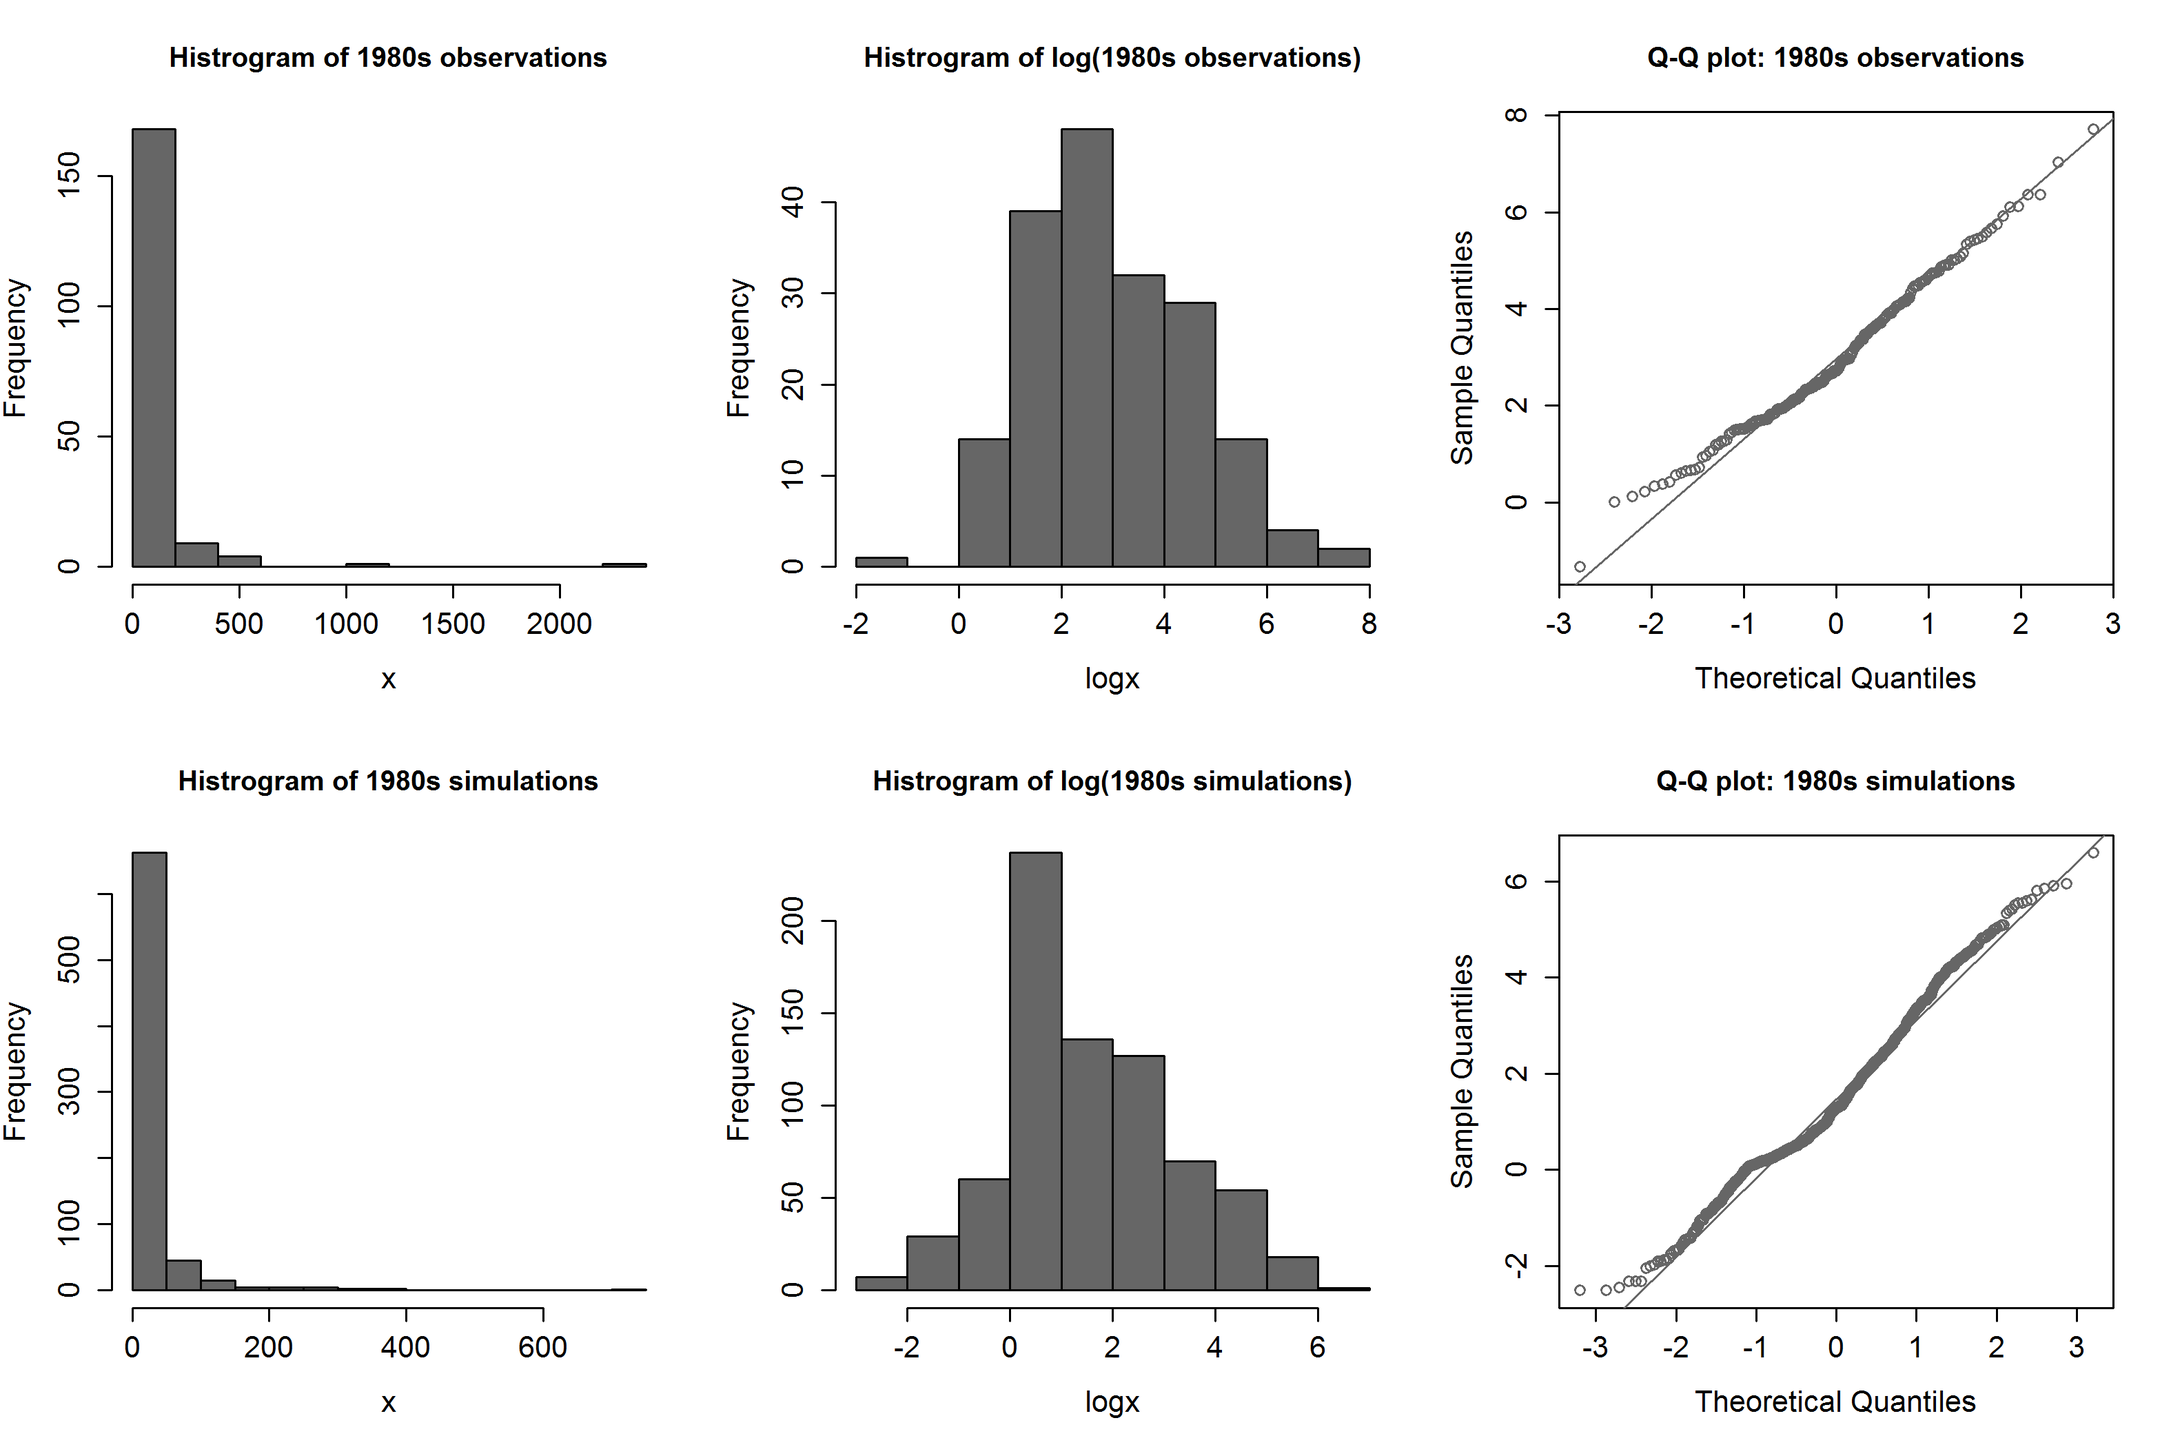
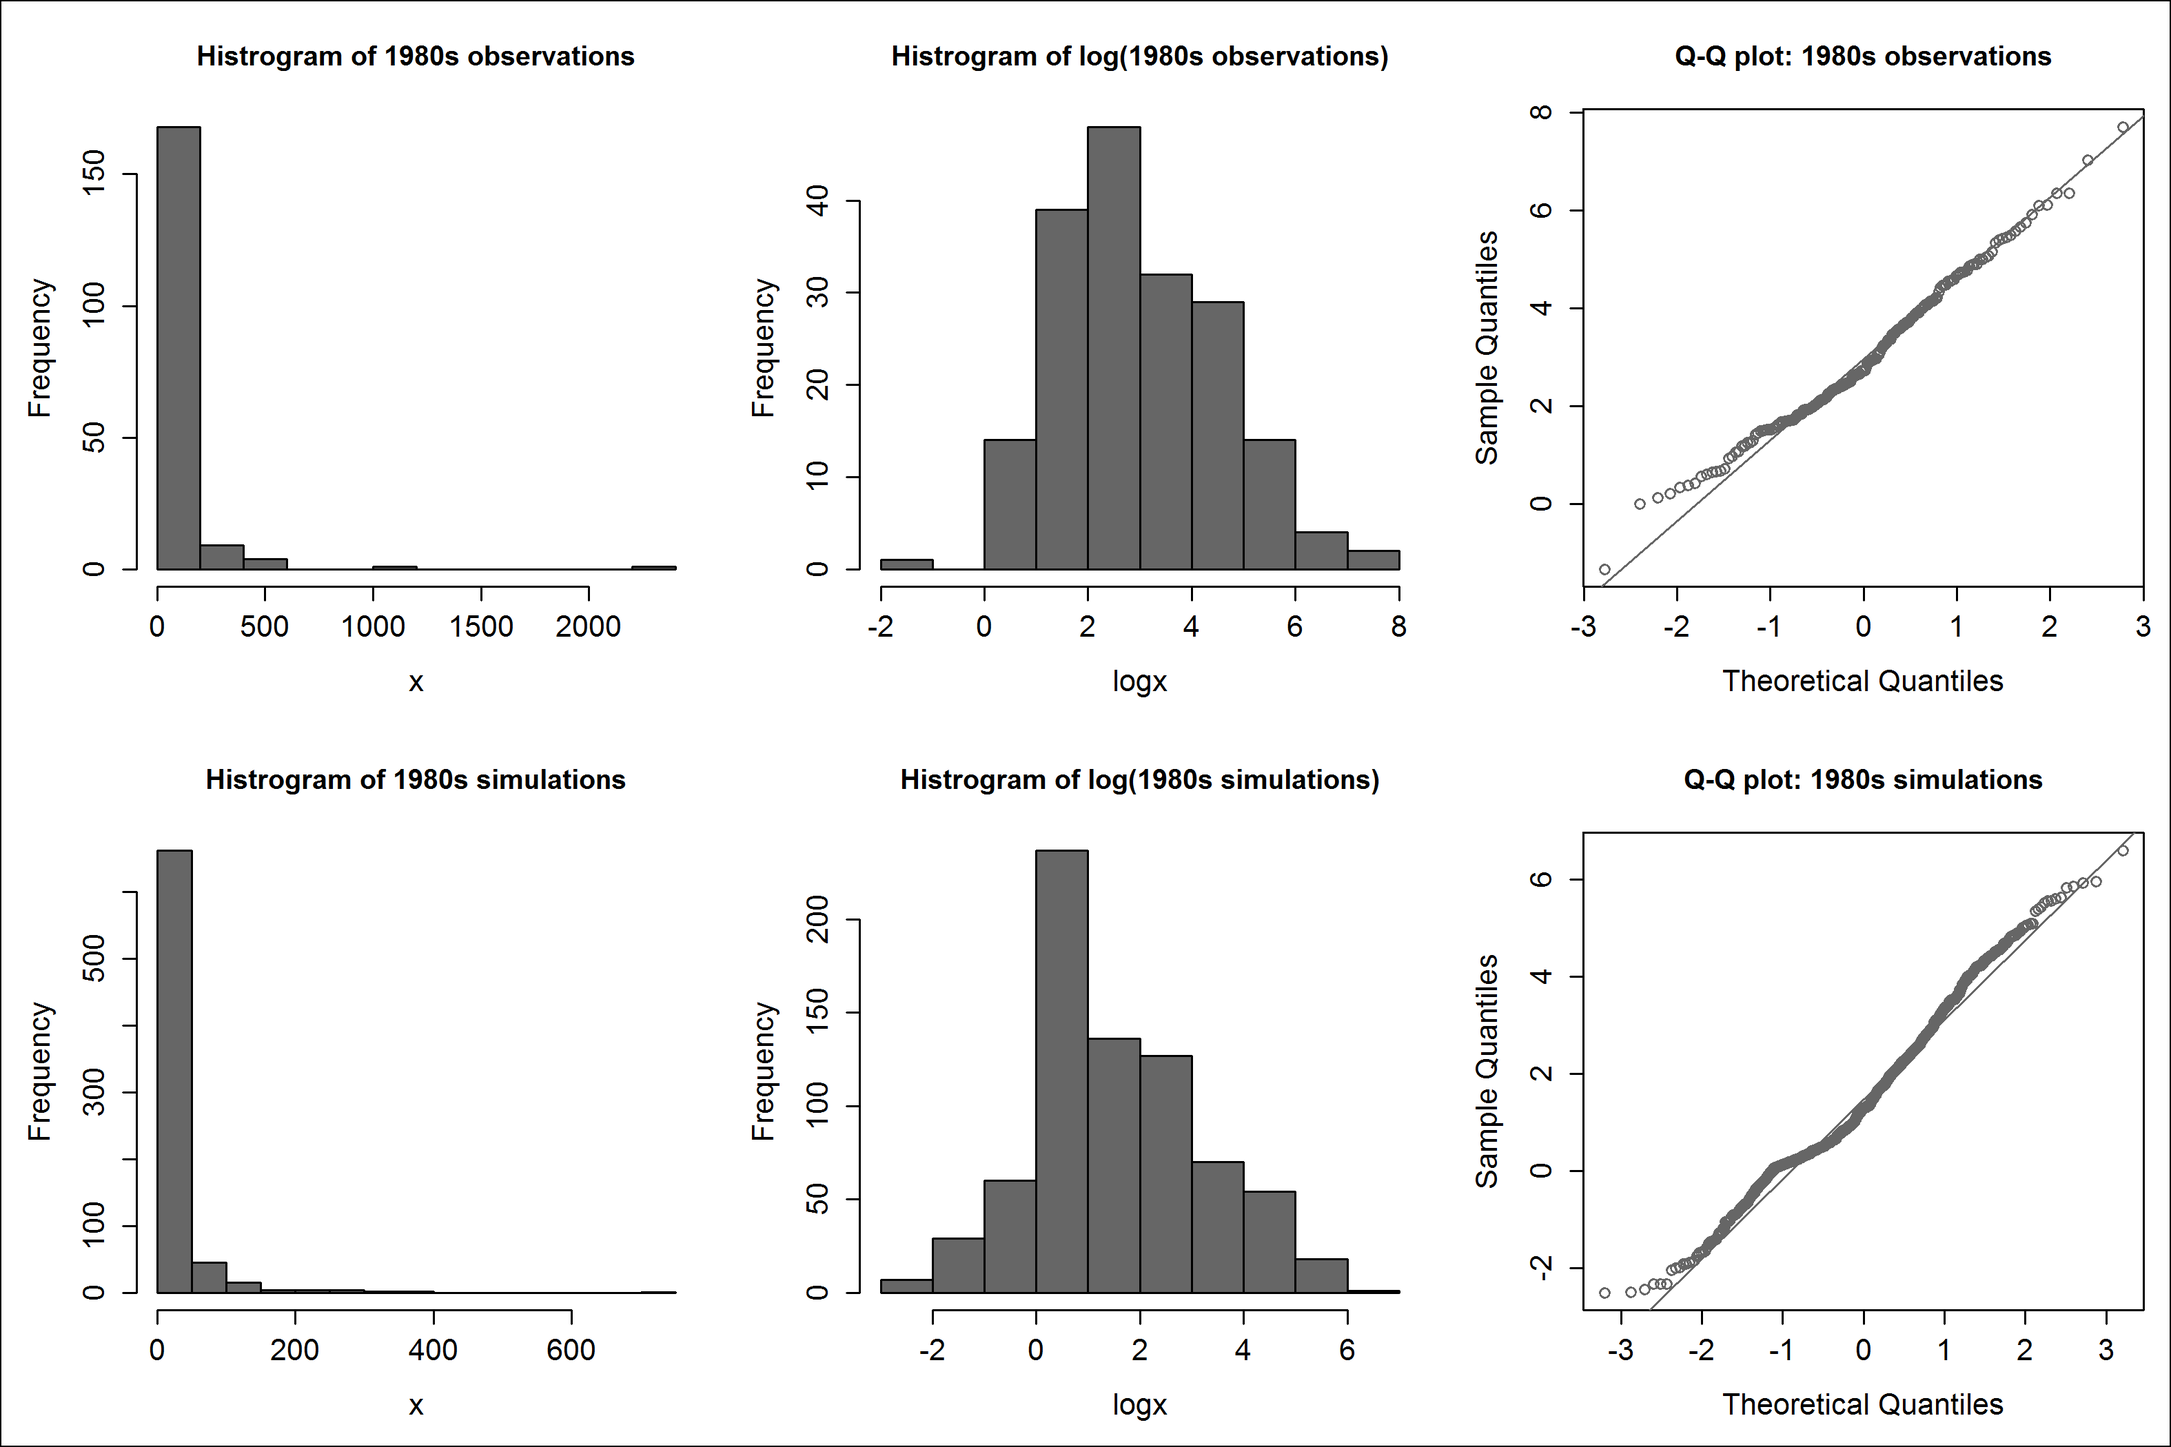
Update docs

diff --git a/docs/html/fse_eda2.html b/docs/html/fse_eda2.html
@@ -212,7 +212,7 @@ img {
 <pre class="sourceCode r"><code class="sourceCode r"><span class="co"># Functions to assess log-normality of fire size for observed data and a</span>
 <span class="co"># sample simulation replicate</span>
 check_lnorm &lt;-<span class="st"> </span>function(d, <span class="dt">nmax.ad.test =</span> <span class="dv">100</span>, <span class="dt">verbose =</span> <span class="ot">FALSE</span>, <span class="dt">closure =</span> <span class="ot">TRUE</span>, 
-    <span class="dt">period =</span> <span class="st">&quot;1950-2009&quot;</span>, ...) {
+    <span class="dt">period =</span> <span class="st">&quot;1950-2009&quot;</span>, <span class="dt">border =</span> <span class="ot">FALSE</span>, ...) {
     f &lt;-<span class="st"> </span>function() {
         <span class="kw">require</span>(<span class="st">&quot;nortest&quot;</span>)
         dl &lt;-<span class="st"> </span><span class="kw">split</span>(d$FSE, d$Replicate)
@@ -223,6 +223,8 @@ check_lnorm &lt;-<span class="st"> </span>function(d, <span class="dt">nmax.ad.t
         if (<span class="kw">length</span>(iters) ==<span class="st"> </span><span class="dv">1</span>) 
             iters &lt;-<span class="st"> </span><span class="dv">1</span>
         <span class="kw">layout</span>(<span class="kw">matrix</span>(<span class="dv">1</span>:(<span class="dv">3</span> *<span class="st"> </span><span class="kw">length</span>(iters)), <span class="kw">length</span>(iters), <span class="dt">byrow =</span> T))
+        if (border) 
+            <span class="kw">par</span>(<span class="dt">mar =</span> <span class="kw">c</span>(<span class="dv">5</span>, <span class="dv">5</span>, <span class="dv">4</span>, <span class="dv">1</span>))
         for (i in iters) {
             x &lt;-<span class="st"> </span>dl[[i]]
             logx &lt;-<span class="st"> </span><span class="kw">log</span>(x +<span class="st"> </span><span class="kw">runif</span>(<span class="kw">length</span>(x), -<span class="fl">0.95</span>, <span class="fl">0.95</span>))  <span class="co"># Add uniform noise</span>
@@ -235,19 +237,24 @@ check_lnorm &lt;-<span class="st"> </span>function(d, <span class="dt">nmax.ad.t
                   <span class="kw">print</span>(<span class="kw">ad.test</span>(<span class="kw">sample</span>(logx, <span class="kw">min</span>(<span class="kw">length</span>(logx), nmax.ad.test)))) else <span class="kw">print</span>(<span class="st">&quot;Sample too small for Anderson-Darling normality test.&quot;</span>)
             }
         }
+        if (border) {
+            <span class="kw">par</span>(<span class="dt">xpd =</span> <span class="ot">NA</span>)
+            <span class="kw">rect</span>(<span class="kw">grconvertX</span>(<span class="dv">0</span>, <span class="dt">from =</span> <span class="st">&quot;ndc&quot;</span>), <span class="kw">grconvertY</span>(<span class="dv">0</span>, <span class="dt">from =</span> <span class="st">&quot;ndc&quot;</span>), <span class="kw">grconvertX</span>(<span class="dv">1</span>, 
+                <span class="dt">from =</span> <span class="st">&quot;ndc&quot;</span>), <span class="kw">grconvertY</span>(<span class="dv">1</span>, <span class="dt">from =</span> <span class="st">&quot;ndc&quot;</span>))
+            <span class="kw">par</span>(<span class="dt">mar =</span> <span class="kw">c</span>(<span class="dv">5</span>, <span class="dv">4</span>, <span class="dv">4</span>, <span class="dv">1</span>) +<span class="st"> </span><span class="fl">0.1</span>, <span class="dt">xpd =</span> <span class="ot">FALSE</span>)
+        }
     }
     if (closure) 
         <span class="kw">return</span>(f) else <span class="kw">f</span>()
 }
 
-check_lnorm_dec &lt;-<span class="st"> </span>function(id, d, dec, <span class="dt">i.offset =</span> <span class="dv">1</span>, ...) {
+check_lnorm_dec &lt;-<span class="st"> </span>function(id, d, dec, <span class="dt">i.offset =</span> <span class="dv">1</span>, <span class="dt">border =</span> <span class="ot">FALSE</span>, ...) {
     for (i in <span class="dv">1</span>:<span class="kw">length</span>(dec)) {
         pid &lt;-<span class="st"> </span><span class="kw">paste0</span>(id, letters[i +<span class="st"> </span>i.offset])
         <span class="kw">assign</span>(pid, <span class="kw">check_lnorm</span>(<span class="kw">subset</span>(d, Decade ==<span class="st"> </span>dec[i]), <span class="dt">period =</span> dec[i], 
-            ...), <span class="dt">pos =</span> <span class="dv">1</span>)
+            <span class="dt">border =</span> border, ...), <span class="dt">pos =</span> <span class="dv">1</span>)
         <span class="kw">get</span>(pid)()
     }
-    <span class="kw">return</span>(<span class="ot">NULL</span>)
 }</code></pre>
 </div>
 <div id="observed-and-sample-replicate-simulation-fire-sizes" class="section level4">
@@ -255,18 +262,19 @@ check_lnorm_dec &lt;-<span class="st"> </span>function(id, d, dec, <span class="
 <p>The first replicate was selected.</p>
 <pre class="sourceCode r"><code class="sourceCode r"><span class="co"># Noatak shrub observed and simulation replicate 1</span>
 <span class="kw">set.seed</span>(<span class="dv">8923</span>)
+border &lt;-<span class="st"> </span><span class="ot">TRUE</span>  <span class="co"># Set TRUE for knitted documents</span>
 d.sf &lt;-<span class="st"> </span><span class="kw">subset</span>(d, Domain ==<span class="st"> &quot;Noatak&quot;</span> &amp;<span class="st"> </span>Vegetation ==<span class="st"> &quot;Shrub&quot;</span> &amp;<span class="st"> </span>Replicate %in%<span class="st"> </span>
 <span class="st">    </span><span class="kw">c</span>(<span class="st">&quot;Observed&quot;</span>, <span class="st">&quot;Rep 0&quot;</span>), <span class="dt">select =</span> <span class="kw">c</span>(<span class="dv">2</span>, <span class="dv">5</span>, <span class="dv">7</span>))
-p02a &lt;-<span class="st"> </span><span class="kw">check_lnorm</span>(d.sf, <span class="dt">col =</span> <span class="st">&quot;gray40&quot;</span>, <span class="dt">cex.lab =</span> <span class="fl">1.3</span>, <span class="dt">cex.axis =</span> <span class="fl">1.3</span>)
+p02a &lt;-<span class="st"> </span><span class="kw">check_lnorm</span>(d.sf, <span class="dt">border =</span> border, <span class="dt">col =</span> <span class="st">&quot;gray40&quot;</span>, <span class="dt">cex.lab =</span> <span class="fl">1.3</span>, <span class="dt">cex.axis =</span> <span class="fl">1.3</span>)
 <span class="kw">p02a</span>()</code></pre>
 <p><img src="fse_eda2_files/figure-html/lnorm_noa_shrub_all-1.png" /></p>
 </div>
 <div id="observed-and-sample-replicate-simulation-fire-sizes-by-decade" class="section level4">
 <h4>Observed and sample replicate simulation fire sizes by decade</h4>
 <p>The first replicate was selected.</p>
-<pre class="sourceCode r"><code class="sourceCode r"><span class="kw">check_lnorm_dec</span>(<span class="st">&quot;p02&quot;</span>, d.sf, dec, <span class="dt">col =</span> <span class="st">&quot;gray40&quot;</span>, <span class="dt">cex.lab =</span> <span class="fl">1.3</span>, <span class="dt">cex.axis =</span> <span class="fl">1.3</span>)</code></pre>
+<pre class="sourceCode r"><code class="sourceCode r"><span class="kw">check_lnorm_dec</span>(<span class="st">&quot;p02&quot;</span>, d.sf, dec, <span class="dt">border =</span> border, <span class="dt">col =</span> <span class="st">&quot;gray40&quot;</span>, <span class="dt">cex.lab =</span> <span class="fl">1.3</span>, 
+    <span class="dt">cex.axis =</span> <span class="fl">1.3</span>)</code></pre>
 <p><img src="fse_eda2_files/figure-html/lnorm_noa_shrub_decades-1.png" /> <img src="fse_eda2_files/figure-html/lnorm_noa_shrub_decades-2.png" /> <img src="fse_eda2_files/figure-html/lnorm_noa_shrub_decades-3.png" /> <img src="fse_eda2_files/figure-html/lnorm_noa_shrub_decades-4.png" /> <img src="fse_eda2_files/figure-html/lnorm_noa_shrub_decades-5.png" /> <img src="fse_eda2_files/figure-html/lnorm_noa_shrub_decades-6.png" /></p>
-<pre><code>## NULL</code></pre>
 </div>
 </div>
 </div>

diff --git a/docs/html/fse_eda3.html b/docs/html/fse_eda3.html
@@ -213,19 +213,16 @@ img {
 <pre class="sourceCode r"><code class="sourceCode r"><span class="co"># Statewide forest observed and simulation replicate 1</span>
 d.sf &lt;-<span class="st"> </span><span class="kw">subset</span>(d, Domain ==<span class="st"> &quot;Statewide&quot;</span> &amp;<span class="st"> </span>Vegetation ==<span class="st"> &quot;Forest&quot;</span> &amp;<span class="st"> </span>Replicate %in%<span class="st"> </span>
 <span class="st">    </span><span class="kw">c</span>(<span class="st">&quot;Observed&quot;</span>, <span class="st">&quot;Rep 0&quot;</span>), <span class="dt">select =</span> <span class="kw">c</span>(<span class="dv">2</span>, <span class="dv">5</span>, <span class="dv">7</span>))
-p03a &lt;-<span class="st"> </span><span class="kw">check_lnorm</span>(d.sf, <span class="dt">col =</span> <span class="st">&quot;gray40&quot;</span>, <span class="dt">cex.lab =</span> <span class="fl">1.3</span>, <span class="dt">cex.axis =</span> <span class="fl">1.3</span>)
+p03a &lt;-<span class="st"> </span><span class="kw">check_lnorm</span>(d.sf, <span class="dt">border =</span> border, <span class="dt">col =</span> <span class="st">&quot;gray40&quot;</span>, <span class="dt">cex.lab =</span> <span class="fl">1.3</span>, <span class="dt">cex.axis =</span> <span class="fl">1.3</span>)
 <span class="kw">p03a</span>()</code></pre>
 <p><img src="fse_eda3_files/figure-html/lnorm_sw_forest_all-1.png" /></p>
 </div>
 <div id="observed-and-sample-replicate-simulation-fire-sizes-by-decade-1" class="section level4">
 <h4>Observed and sample replicate simulation fire sizes by decade</h4>
 <p>The first replicate was selected.</p>
-<pre class="sourceCode r"><code class="sourceCode r"><span class="kw">check_lnorm_dec</span>(<span class="st">&quot;p03&quot;</span>, d.sf, dec, <span class="dt">col =</span> <span class="st">&quot;gray40&quot;</span>, <span class="dt">cex.lab =</span> <span class="fl">1.3</span>, <span class="dt">cex.axis =</span> <span class="fl">1.3</span>)</code></pre>
+<pre class="sourceCode r"><code class="sourceCode r"><span class="kw">check_lnorm_dec</span>(<span class="st">&quot;p03&quot;</span>, d.sf, dec, <span class="dt">border =</span> border, <span class="dt">col =</span> <span class="st">&quot;gray40&quot;</span>, <span class="dt">cex.lab =</span> <span class="fl">1.3</span>, 
+    <span class="dt">cex.axis =</span> <span class="fl">1.3</span>)</code></pre>
 <p><img src="fse_eda3_files/figure-html/lnorm_sw_forest_decades-1.png" /> <img src="fse_eda3_files/figure-html/lnorm_sw_forest_decades-2.png" /> <img src="fse_eda3_files/figure-html/lnorm_sw_forest_decades-3.png" /> <img src="fse_eda3_files/figure-html/lnorm_sw_forest_decades-4.png" /> <img src="fse_eda3_files/figure-html/lnorm_sw_forest_decades-5.png" /> <img src="fse_eda3_files/figure-html/lnorm_sw_forest_decades-6.png" /></p>
-<pre><code>## NULL</code></pre>
-<pre class="sourceCode r"><code class="sourceCode r"><span class="kw">dev.off</span>()</code></pre>
-<pre><code>## null device 
-##           1</code></pre>
 </div>
 </div>
 </div>

diff --git a/docs/md/fse_eda2.md b/docs/md/fse_eda2.md
@@ -17,7 +17,7 @@ Evaluate the degree of log-normality of shrub fire size distributions using obse
 # Functions to assess log-normality of fire size for observed data and a
 # sample simulation replicate
 check_lnorm <- function(d, nmax.ad.test = 100, verbose = FALSE, closure = TRUE, 
-    period = "1950-2009", ...) {
+    period = "1950-2009", border = FALSE, ...) {
     f <- function() {
         require("nortest")
         dl <- split(d$FSE, d$Replicate)
@@ -28,6 +28,8 @@ check_lnorm <- function(d, nmax.ad.test = 100, verbose = FALSE, closure = TRUE,
         if (length(iters) == 1) 
             iters <- 1
         layout(matrix(1:(3 * length(iters)), length(iters), byrow = T))
+        if (border) 
+            par(mar = c(5, 5, 4, 1))
         for (i in iters) {
             x <- dl[[i]]
             logx <- log(x + runif(length(x), -0.95, 0.95))  # Add uniform noise
@@ -40,19 +42,24 @@ check_lnorm <- function(d, nmax.ad.test = 100, verbose = FALSE, closure = TRUE,
                   print(ad.test(sample(logx, min(length(logx), nmax.ad.test)))) else print("Sample too small for Anderson-Darling normality test.")
             }
         }
+        if (border) {
+            par(xpd = NA)
+            rect(grconvertX(0, from = "ndc"), grconvertY(0, from = "ndc"), grconvertX(1, 
+                from = "ndc"), grconvertY(1, from = "ndc"))
+            par(mar = c(5, 4, 4, 1) + 0.1, xpd = FALSE)
+        }
     }
     if (closure) 
         return(f) else f()
 }
 
-check_lnorm_dec <- function(id, d, dec, i.offset = 1, ...) {
+check_lnorm_dec <- function(id, d, dec, i.offset = 1, border = FALSE, ...) {
     for (i in 1:length(dec)) {
         pid <- paste0(id, letters[i + i.offset])
         assign(pid, check_lnorm(subset(d, Decade == dec[i]), period = dec[i], 
-            ...), pos = 1)
+            border = border, ...), pos = 1)
         get(pid)()
     }
-    return(NULL)
 }
 ```
 
@@ -64,9 +71,10 @@ The first replicate was selected.
 ```r
 # Noatak shrub observed and simulation replicate 1
 set.seed(8923)
+border <- TRUE  # Set TRUE for knitted documents
 d.sf <- subset(d, Domain == "Noatak" & Vegetation == "Shrub" & Replicate %in% 
     c("Observed", "Rep 0"), select = c(2, 5, 7))
-p02a <- check_lnorm(d.sf, col = "gray40", cex.lab = 1.3, cex.axis = 1.3)
+p02a <- check_lnorm(d.sf, border = border, col = "gray40", cex.lab = 1.3, cex.axis = 1.3)
 p02a()
 ```
 
@@ -78,11 +86,8 @@ The first replicate was selected.
 
 
 ```r
-check_lnorm_dec("p02", d.sf, dec, col = "gray40", cex.lab = 1.3, cex.axis = 1.3)
+check_lnorm_dec("p02", d.sf, dec, border = border, col = "gray40", cex.lab = 1.3, 
+    cex.axis = 1.3)
 ```
 
 ![](fse_eda2_files/figure-html/lnorm_noa_shrub_decades-1.png) ![](fse_eda2_files/figure-html/lnorm_noa_shrub_decades-2.png) ![](fse_eda2_files/figure-html/lnorm_noa_shrub_decades-3.png) ![](fse_eda2_files/figure-html/lnorm_noa_shrub_decades-4.png) ![](fse_eda2_files/figure-html/lnorm_noa_shrub_decades-5.png) ![](fse_eda2_files/figure-html/lnorm_noa_shrub_decades-6.png) 
-
-```
-## NULL
-```

diff --git a/docs/md/fse_eda3.md b/docs/md/fse_eda3.md
@@ -22,7 +22,7 @@ The first replicate was selected.
 # Statewide forest observed and simulation replicate 1
 d.sf <- subset(d, Domain == "Statewide" & Vegetation == "Forest" & Replicate %in% 
     c("Observed", "Rep 0"), select = c(2, 5, 7))
-p03a <- check_lnorm(d.sf, col = "gray40", cex.lab = 1.3, cex.axis = 1.3)
+p03a <- check_lnorm(d.sf, border = border, col = "gray40", cex.lab = 1.3, cex.axis = 1.3)
 p03a()
 ```
 
@@ -34,20 +34,8 @@ The first replicate was selected.
 
 
 ```r
-check_lnorm_dec("p03", d.sf, dec, col = "gray40", cex.lab = 1.3, cex.axis = 1.3)
+check_lnorm_dec("p03", d.sf, dec, border = border, col = "gray40", cex.lab = 1.3, 
+    cex.axis = 1.3)
 ```
 
 ![](fse_eda3_files/figure-html/lnorm_sw_forest_decades-1.png) ![](fse_eda3_files/figure-html/lnorm_sw_forest_decades-2.png) ![](fse_eda3_files/figure-html/lnorm_sw_forest_decades-3.png) ![](fse_eda3_files/figure-html/lnorm_sw_forest_decades-4.png) ![](fse_eda3_files/figure-html/lnorm_sw_forest_decades-5.png) ![](fse_eda3_files/figure-html/lnorm_sw_forest_decades-6.png) 
-
-```
-## NULL
-```
-
-```r
-dev.off()
-```
-
-```
-## null device 
-##           1
-```
